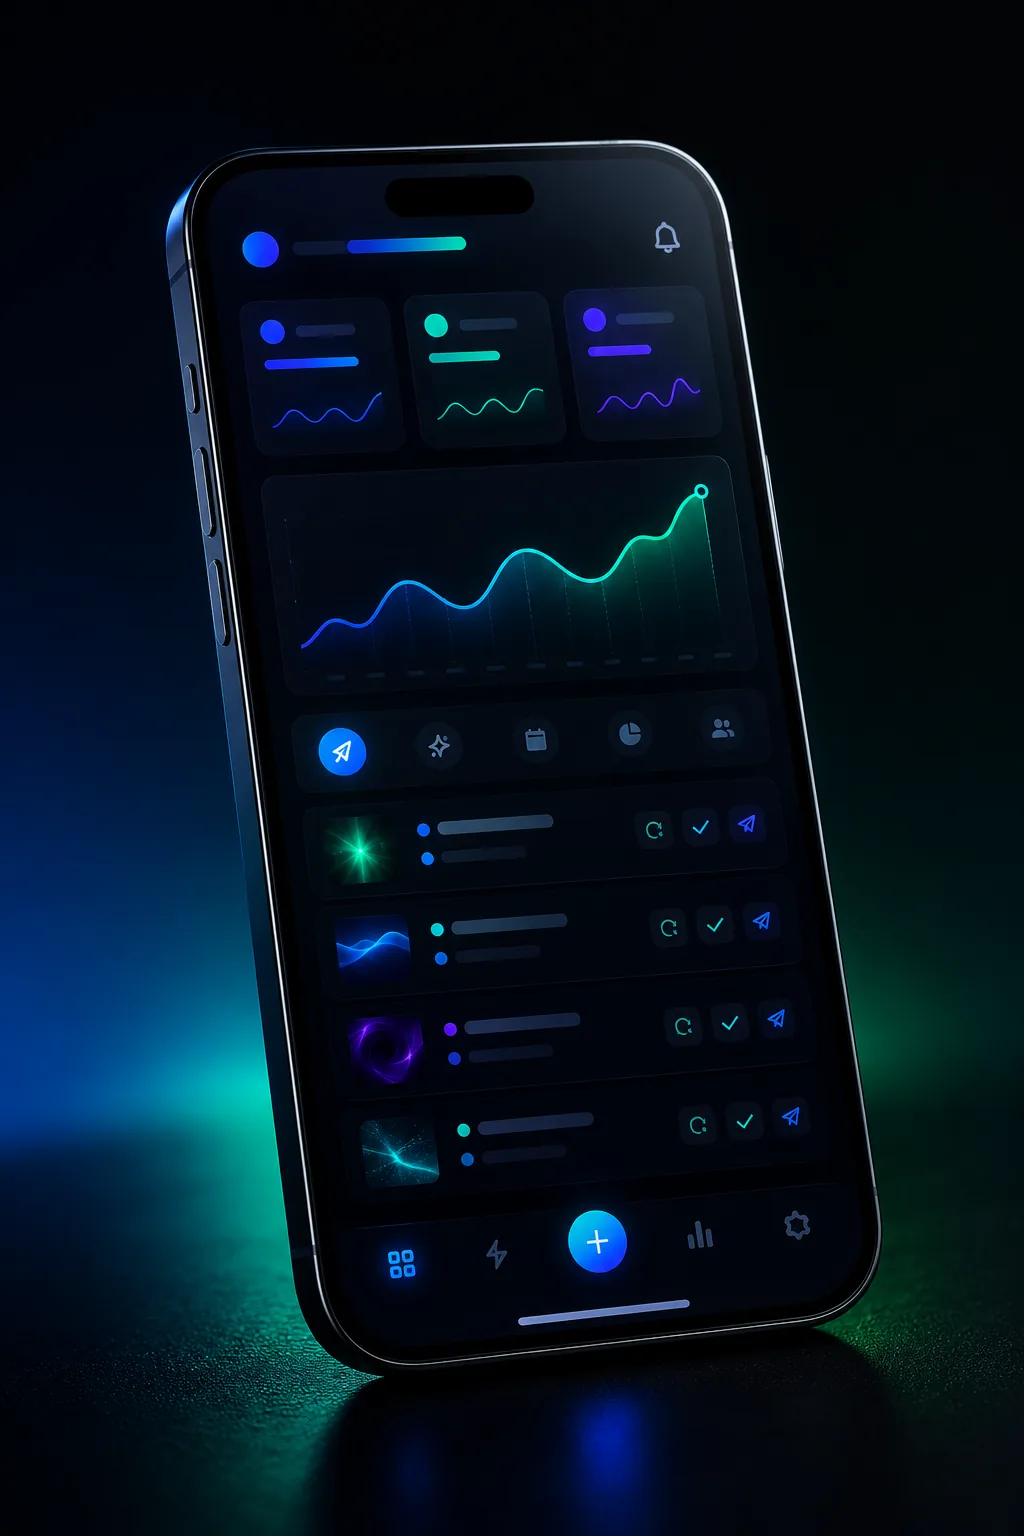
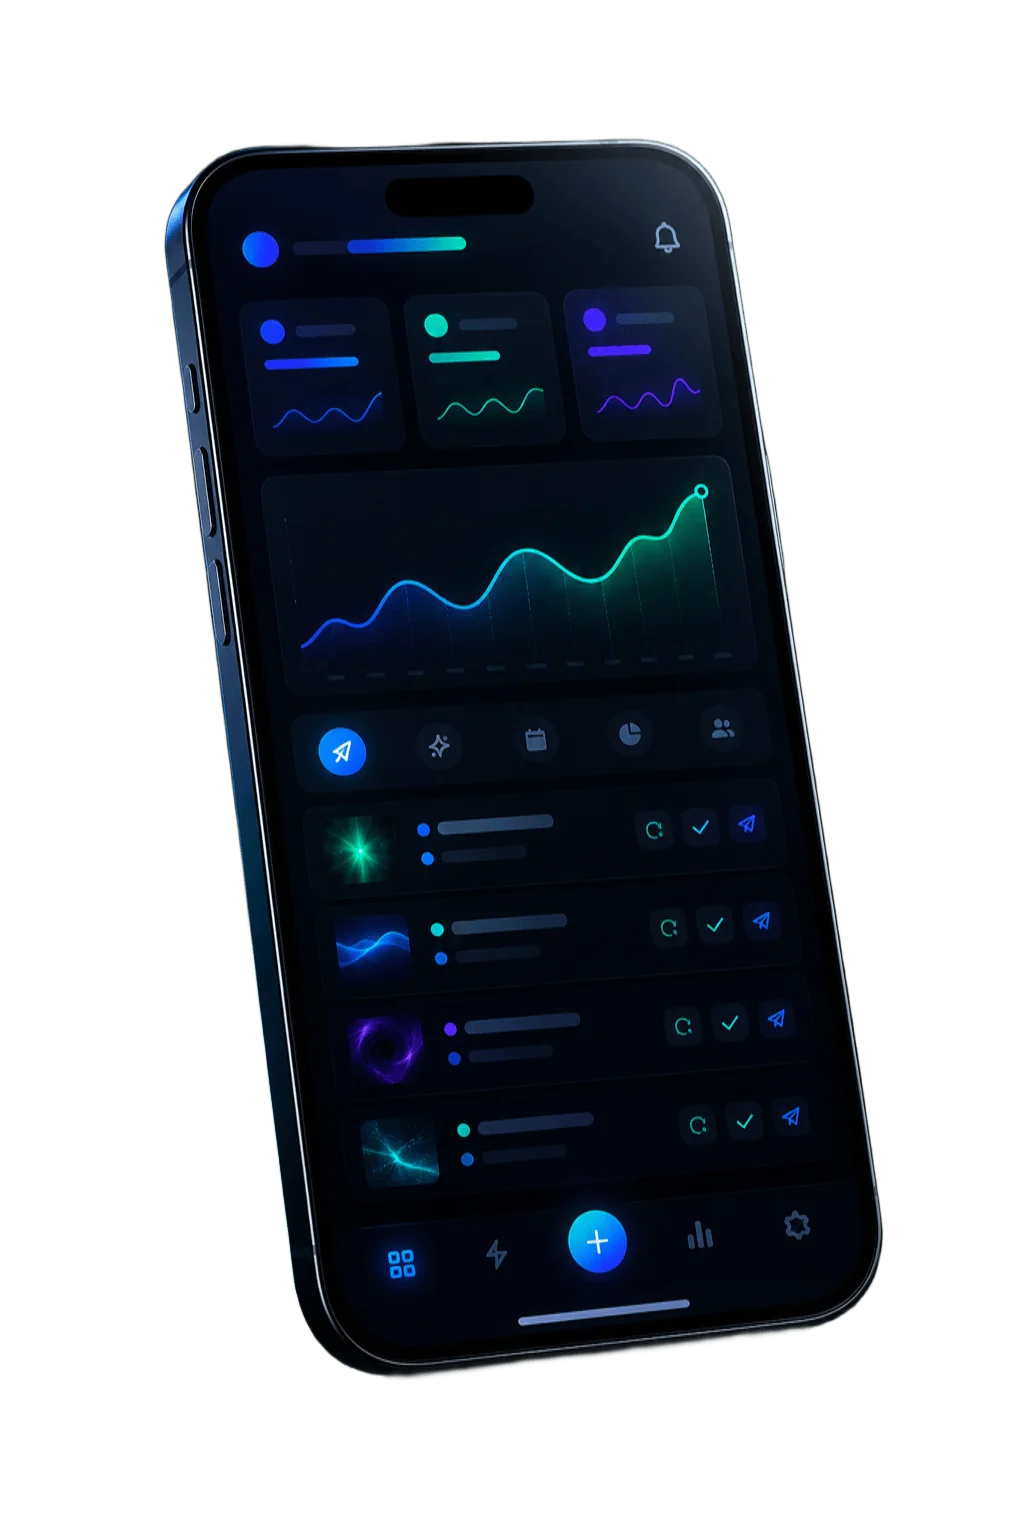
Update login and mobile visual assets

diff --git a/frontend/src/pages/auth/LoginPage.tsx b/frontend/src/pages/auth/LoginPage.tsx
@@ -125,12 +125,12 @@ export default function LoginPage() {
       <section className="landing-reveal relative m-auto grid w-full max-w-6xl overflow-hidden rounded-[2.2rem] border border-white/10 bg-white/[0.045] shadow-[0_50px_160px_rgba(0,0,0,0.55)] backdrop-blur md:grid-cols-[0.95fr_1.05fr]">
         <div className="relative min-h-[22rem] overflow-hidden border-b border-white/10 bg-[#08100d] md:border-b-0 md:border-r md:border-white/10">
           <img
-            src="/landing/mobile-preview.webp"
+            src="/landing/secure-mobile-console.webp"
             alt=""
             className="landing-phone-image absolute left-1/2 top-6 h-[35rem] max-w-none -translate-x-1/2 object-contain opacity-95 md:top-0 md:h-[42rem]"
           />
           <img
-            src="/landing/hero-orb.webp"
+            src="/landing/login-auth-orb.webp"
             alt=""
             className="landing-orb absolute left-8 top-8 h-24 w-24 object-contain opacity-80"
           />
